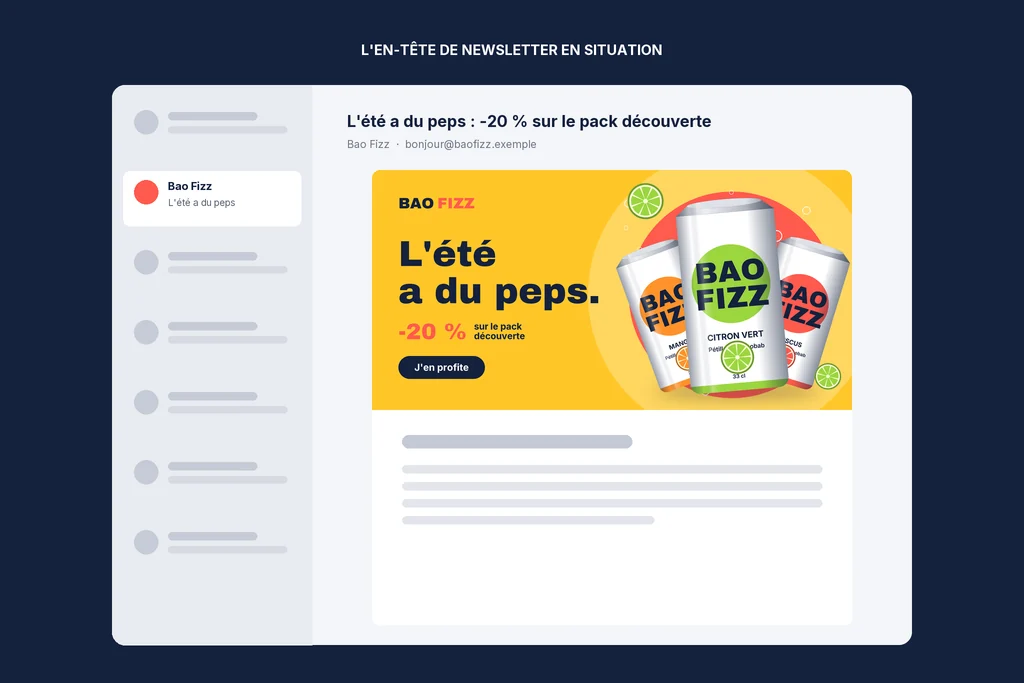
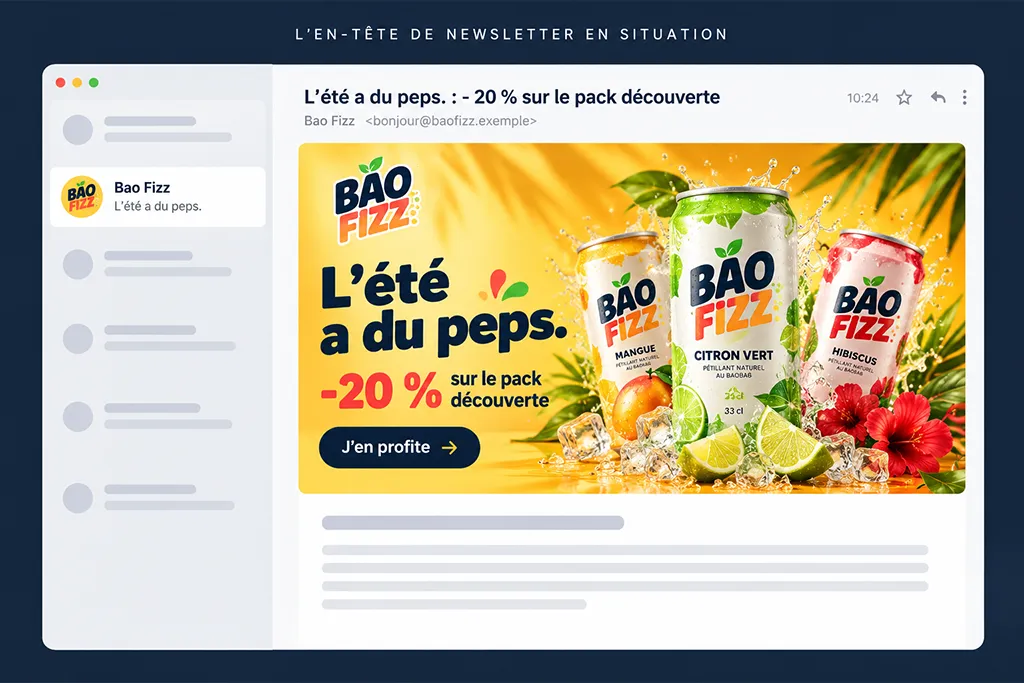
Bao Fizz : projet publié dans le portfolio avec les images du propriétaire
- Brouillon retiré
- Couverture et planches du propriétaire, deux planches ajoutées (direction artistique, posts Instagram)
- Fiche alignée sur les nouvelles images, image de partage recréée
- Original 3000 x 3000 de la planche 6 conservé dans briefs/

diff --git a/_projets/campagne-publicitaire-bao-fizz.md b/_projets/campagne-publicitaire-bao-fizz.md
@@ -2,11 +2,6 @@
 # Adresse de la page : /portfolio/campagne-publicitaire-bao-fizz/
 # Brief de création : briefs/02-bao-fizz-campagne-publicitaire.md
 
-# Brouillon : visible sur la version de test, masqué du portfolio en production.
-# Supprimer les deux lignes suivantes quand les vrais visuels sont en place.
-brouillon: true
-sitemap: false
-
 # Projet concept : la marque est fictive, c'est indiqué sur la carte et sur la page.
 concept: true
 
@@ -20,34 +15,38 @@ description: "Un visuel de campagne décliné en quatre bannières publicitaires
 ordre: 0.2
 categorie: campagne
 titre_carte: "Campagne publicitaire Bao Fizz"
-resume: "Un visuel décliné en bannières et en newsletter"
+resume: "Un visuel décliné en bannières, newsletter et posts Instagram"
 image: /portfolio/campagne-publicitaire-bao-fizz/img/couverture.webp
 # Image utilisée pour les partages sur les réseaux sociaux (JPG)
 image_partage: /portfolio/campagne-publicitaire-bao-fizz/img/couverture.jpg
 alt: "Campagne publicitaire pour la boisson Bao Fizz, projet concept de Gas'in Sary"
 
 # Page détaillée
-intro: "Bao Fizz est une marque fictive de boisson pétillante au fruit du baobab. Nous avons imaginé sa campagne d'été, puis décliné le visuel principal en quatre bannières publicitaires et en un en-tête de newsletter."
+intro: "Bao Fizz est une marque fictive de boisson pétillante au fruit du baobab. Nous avons imaginé sa campagne d'été, puis décliné le visuel principal en quatre bannières publicitaires, en un en-tête de newsletter et en posts pour Instagram."
 
 badge: "Campagne digitale"
-prestation: "Bannières et e-mailing"
+prestation: "Bannières, e-mailing, réseaux sociaux"
 date_projet: "Octobre 2026"
 client: "Bao Fizz, marque fictive (projet concept)"
 type_projet: "Déclinaison d'une campagne publicitaire"
-livrables: "1 visuel principal, 4 bannières, 1 en-tête de newsletter"
+livrables: "1 visuel principal, 4 bannières, 1 en-tête de newsletter, 3 posts Instagram"
 outils:
   - Photoshop
   - Illustrator
 
 galerie:
   - image: /portfolio/campagne-publicitaire-bao-fizz/img/planche-1.webp
-    alt: "Visuel principal de la campagne d'été Bao Fizz : trois canettes et l'accroche « L'été a du peps. »"
+    alt: "Logo Bao Fizz et canette posée sur de la glace et des fruits, avec la signature « Du soleil en canette »"
   - image: /portfolio/campagne-publicitaire-bao-fizz/img/planche-2.webp
     alt: "Quatre bannières publicitaires Bao Fizz : 728 × 90, 160 × 600, 300 × 600 et 300 × 250 pixels"
   - image: /portfolio/campagne-publicitaire-bao-fizz/img/planche-3.webp
     alt: "Bannières publicitaires Bao Fizz affichées dans une page web"
   - image: /portfolio/campagne-publicitaire-bao-fizz/img/planche-4.webp
     alt: "En-tête de newsletter Bao Fizz affiché dans une messagerie"
+  - image: /portfolio/campagne-publicitaire-bao-fizz/img/planche-5.webp
+    alt: "Direction artistique de Bao Fizz : variantes du logo, palette de couleurs, icônes et typographies"
+  - image: /portfolio/campagne-publicitaire-bao-fizz/img/planche-6.webp
+    alt: "Trois posts Instagram de la campagne Bao Fizz présentés dans des téléphones"
 
 contexte: "L'objectif de cet exercice : faire vivre une même campagne dans des formats très différents, du plus large au plus étroit, sans perdre ni le message ni la marque. L'accroche, le produit, l'offre et le bouton devaient rester lisibles partout."
 
@@ -55,15 +54,15 @@ titre_etapes: "Déroulé de la création"
 etapes:
   - titre: "Visuel principal"
     icone: bi-image
-    texte: "Nous avons d'abord conçu le visuel de référence : la canette, l'accroche « L'été a du peps. », l'offre de lancement et le bouton, sur un fond jaune soleil, avec un grand disque corail derrière le produit."
+    texte: "Nous avons d'abord conçu le logo et le visuel de référence : les trois parfums entourés de fruits frais et de glace, l'accroche « L'été a du peps. », l'offre de lancement et le bouton, sur un fond jaune soleil."
   - titre: "Bannières publicitaires"
     icone: bi-grid-1x2
     texte: "Le visuel a été recomposé pour quatre formats standard : 300 × 250, 728 × 90, 160 × 600 et 300 × 600 pixels. Chaque bannière garde le logo, l'accroche, le produit et le bouton."
-  - titre: "Newsletter"
+  - titre: "Newsletter et réseaux sociaux"
     icone: bi-envelope-paper
-    texte: "L'en-tête de newsletter reprend la campagne dans un format de 600 pixels de large, pensé pour la lecture sur téléphone comme sur ordinateur."
+    texte: "L'en-tête de newsletter reprend la campagne dans un format de 600 pixels de large, pensé pour la lecture sur téléphone comme sur ordinateur. Trois posts Instagram prolongent la campagne avec d'autres accroches."
 
 appel: "Vous devez décliner une campagne en bannières, en e-mailing ou en visuels pour les réseaux sociaux ? Le studio Gas'in Sary prend en charge la production à distance, pour les marques comme pour les agences. Parlons de votre projet."
 
-resultat: "La campagne se décline en six visuels cohérents. Dans le format le plus contraint comme dans le plus généreux, la marque reste reconnaissable et le message complet."
+resultat: "La campagne se décline en bannières, en newsletter et en posts pour les réseaux sociaux. Dans le format le plus contraint comme dans le plus généreux, la marque reste reconnaissable et le message complet."
 ---

diff --git a/HISTORIQUE.md b/HISTORIQUE.md
@@ -28,6 +28,7 @@ Dernière mise à jour : 03/10/2026
 - **Voara** : direction artistique « luxe calme » dans `briefs/voara-direction-artistique.html`. À la demande du propriétaire, les huit visuels et les cinq planches ont été **générés par l'assistant** (script `briefs/outils/generer-visuels-voara.py`, Pillow) : flacon dessiné, aucune photographie. Visuels en taille réelle dans `briefs/voara-visuels/`, planches du site dans `portfolio/campagne-reseaux-sociaux-voara/img/`. La fiche reste en brouillon : le propriétaire doit valider, et idéalement refaire les visuels avec ses outils (la fiche annonce Photoshop et Illustrator, ce qui n'est pas vrai des images générées).
 - **Voara, suite** : le 03/10/2026 au soir, le propriétaire a remplacé la couverture et les quatre planches par ses propres versions retravaillées (flacon et fruit de baobab photoréalistes, emblème végétal ajouté au logo). Les fichiers de `briefs/voara-visuels/` et le script correspondent donc à l'ancienne version générée, plus à ce qui est en ligne. Le propriétaire a ensuite validé : outils Photoshop et Illustrator, `brouillon` retiré, projet affiché sur l'accueil (`accueil: true`), planche 4 remplacée par une version au logo harmonisé. **Le projet Voara est terminé et sera publié à la prochaine mise en production.**
 - **Bao Fizz** (04/10/2026) : direction artistique dans `briefs/bao-fizz-direction-artistique.html`. Les six formats (visuel principal, newsletter, quatre bannières) et les cinq planches ont été **générés par l'assistant** (script `briefs/outils/generer-visuels-bao-fizz.py`, Pillow) : canette et formes dessinées, aucune photographie. Fichiers dans `briefs/bao-fizz-visuels/` et `portfolio/campagne-publicitaire-bao-fizz/img/`. La fiche reste en **brouillon** tant que le propriétaire n'a pas validé ou remplacé les images, comme il l'a fait pour Voara.
+- **Bao Fizz, suite** (04/10/2026) : le propriétaire a remplacé la couverture et les quatre planches par ses versions (canettes et fruits photoréalistes, nouveau logo à feuilles) et en a ajouté deux : `planche-5` (direction artistique) et `planche-6` (posts Instagram). `brouillon` retiré : **le projet Bao Fizz est terminé et sera publié à la prochaine mise en production.** Il n'est pas affiché sur l'accueil (non demandé). `planche-6` a été fournie en 3000 × 3000 px : l'original est conservé dans `briefs/bao-fizz-visuels/originaux/`, la version du site est ramenée à 1024 × 683 px sur le même fond jaune. Le dossier `briefs/bao-fizz-visuels/` (hors `originaux/`), la planche HTML de direction artistique et le script décrivent l'ancienne version générée, plus ce qui est en ligne.
 - **À faire ensuite** : relire les textes des deux pages par rapport aux visuels réels, retirer `brouillon` et `sitemap: false`, éventuellement passer `accueil: true`, puis rédiger la réponse à l'agence (tarif journalier à fixer avec le propriétaire).
 - **Questions sans réponse** : le projet Aquafish est-il un vrai client ? (s'il est fictif : `concept: true` et retirer le témoignage) ; faut-il mettre la nouvelle version en production avant de répondre à l'agence ?
 - Les noms Voara et Bao Fizz n'ont fait l'objet que d'une recherche web rapide, pas d'une recherche de marque déposée.
@@ -168,3 +169,7 @@ Liste complète et ordre de traitement proposé : voir [AUDIT.md](AUDIT.md). Rap
 **Bao Fizz : direction artistique et visuels**
 - Planche de direction artistique (HTML), six formats et cinq planches 1024 × 683 générés par script, à la place des images provisoires.
 - Fiche : titre et description centrés sur le service (bannières, newsletter), textes alternatifs, image de partage JPG, appel à l'action tourné vers les marques et les agences. Toujours en brouillon.
+
+**Bao Fizz publié dans le portfolio**
+- Images du propriétaire vérifiées (WebP, 1024 × 683 px), deux planches ajoutées à la galerie, `planche-6` mise au format.
+- Fiche alignée sur les nouvelles images : textes alternatifs, livrables, étapes, résultat ; image de partage `couverture.jpg` recréée à partir de la nouvelle couverture (le propriétaire avait supprimé l'ancienne).
